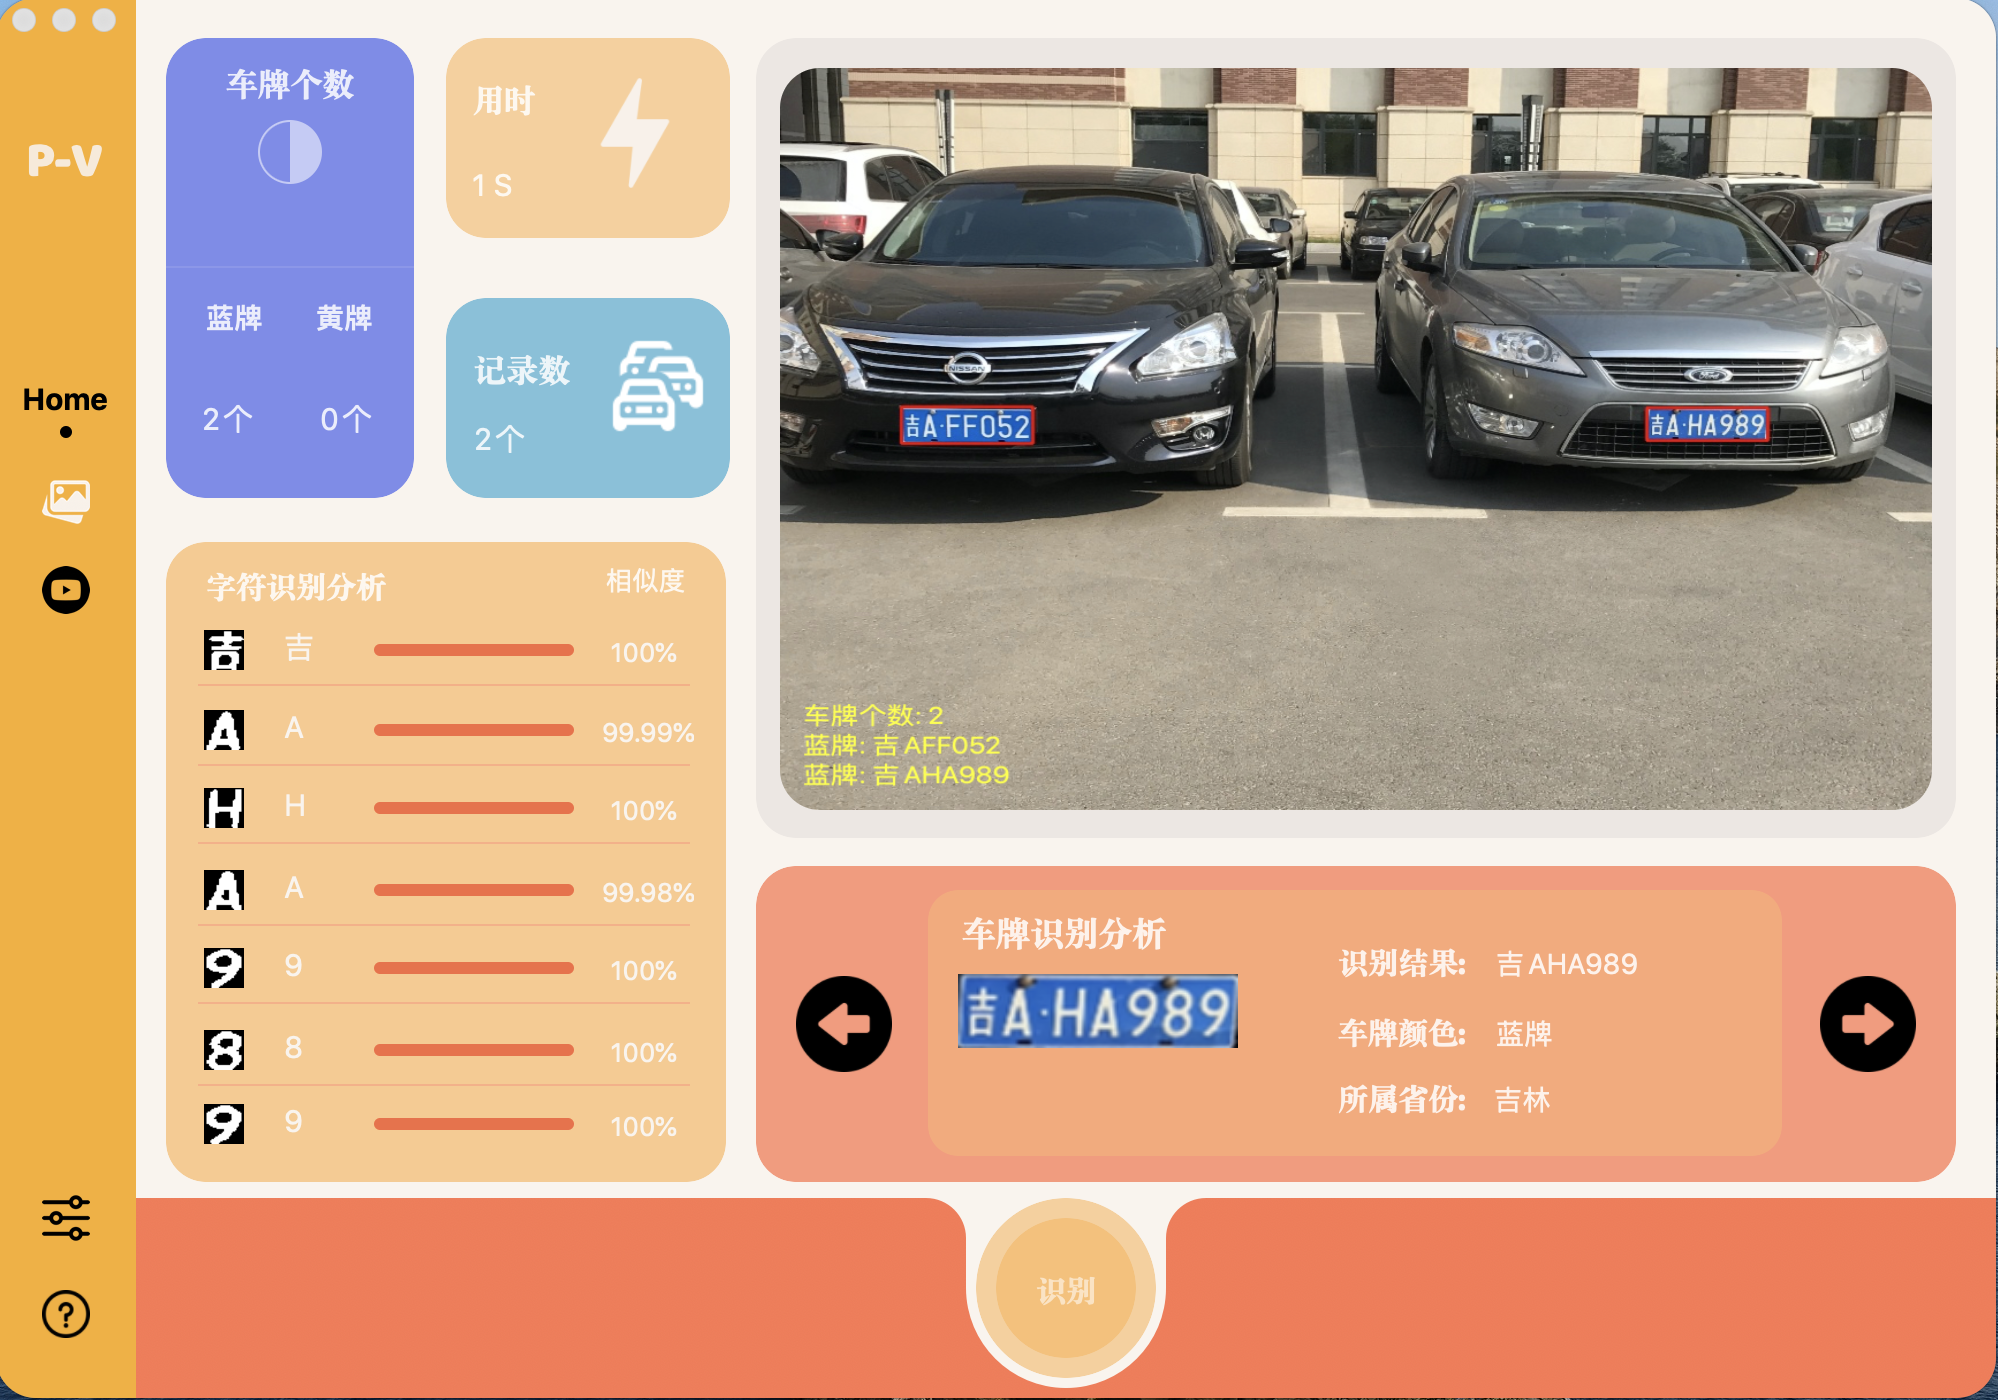
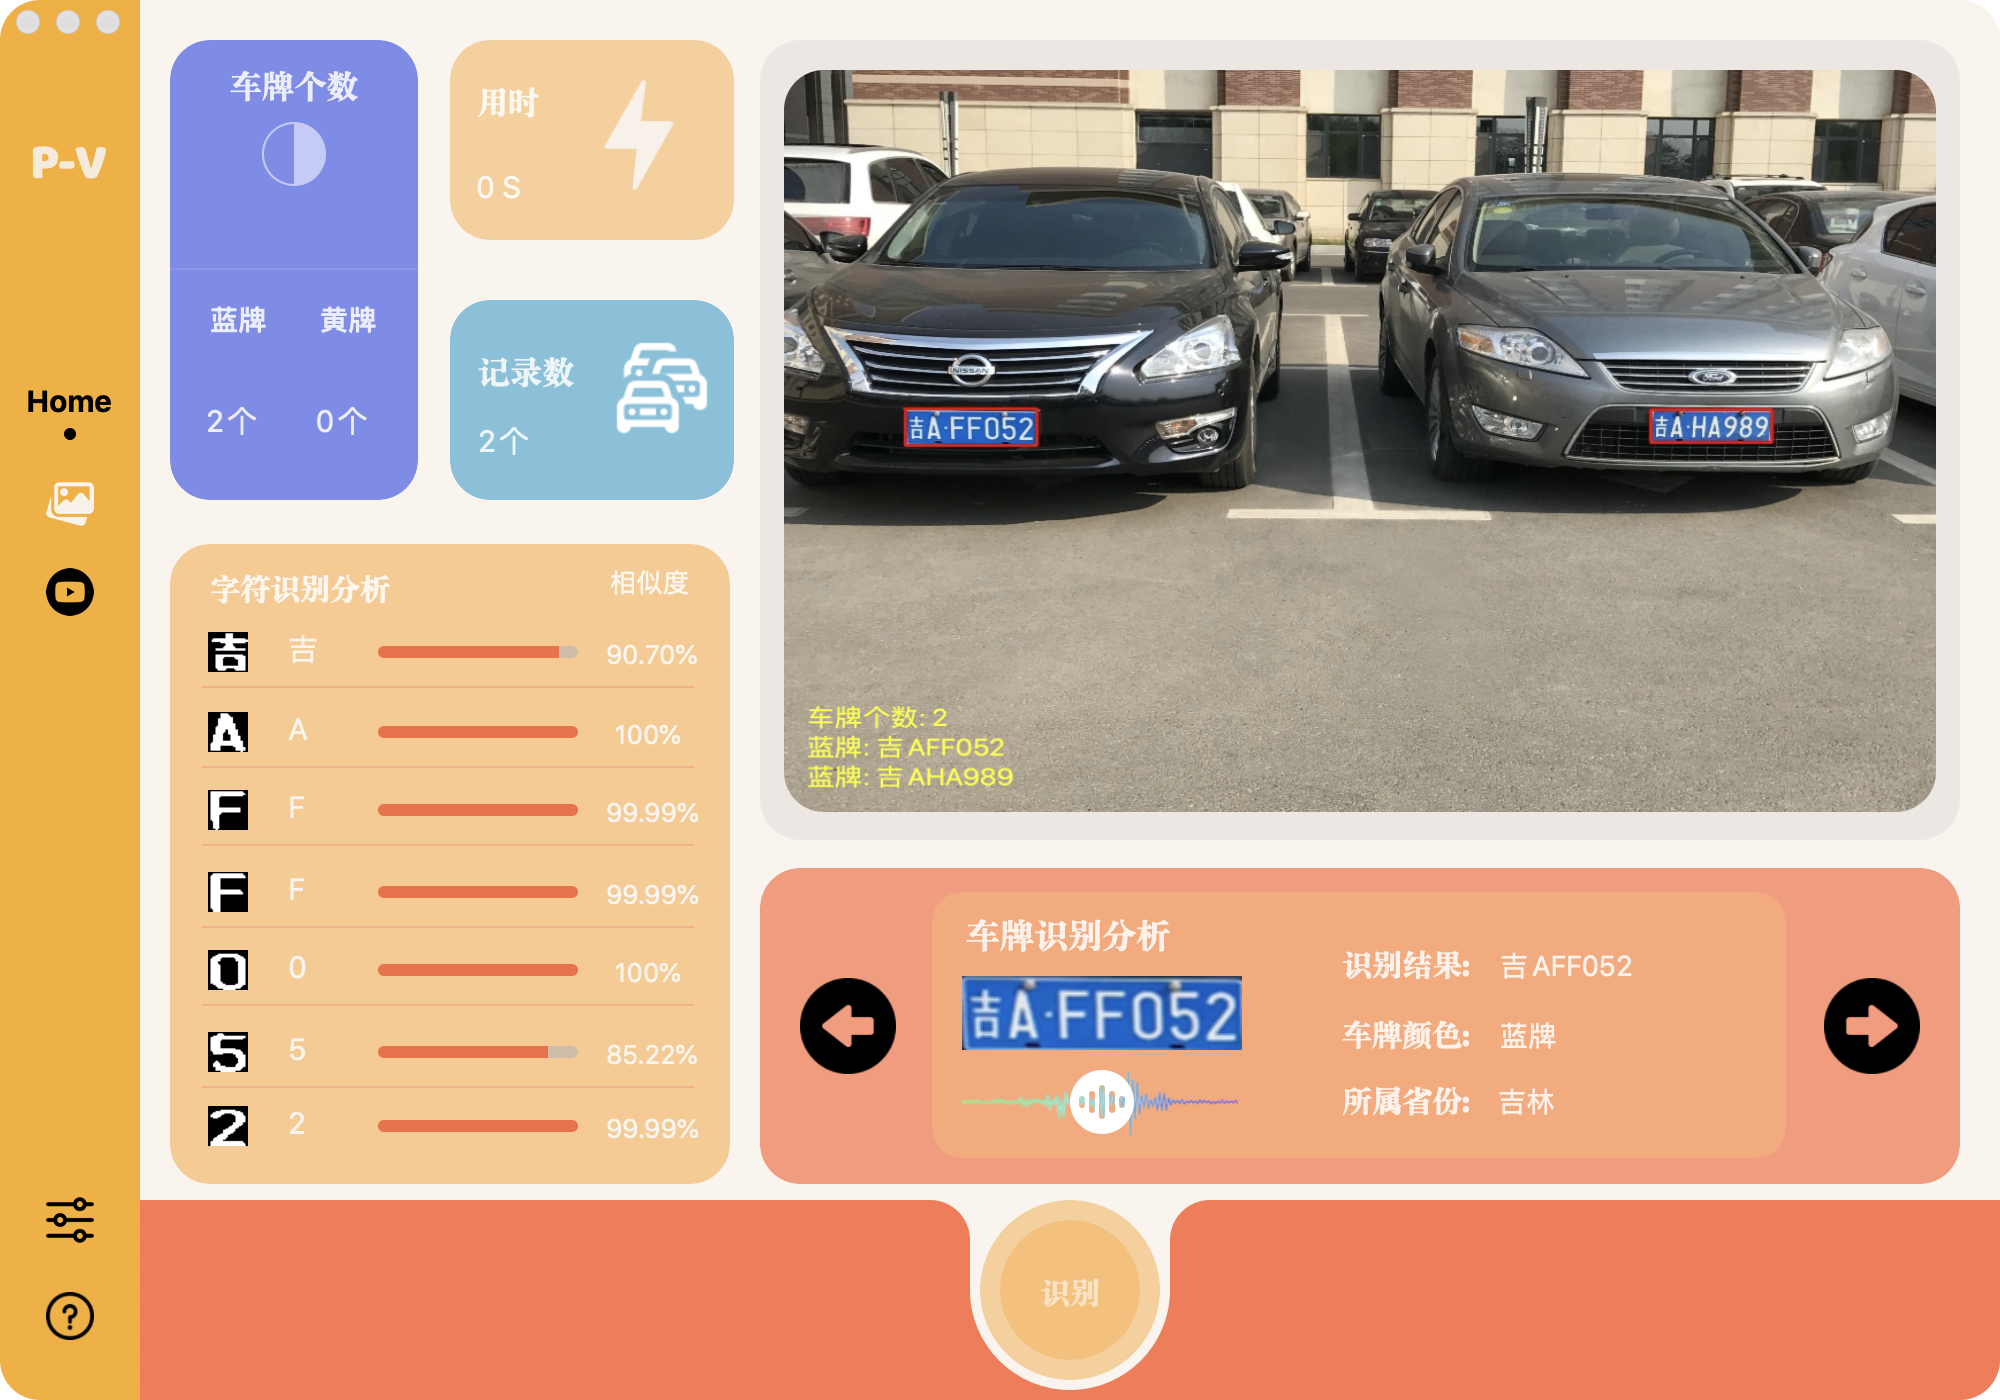
添加了语音播报功能并修复了之前版本存在的bug

diff --git a/PLR_Vision/Controller/ImageViewController.swift b/PLR_Vision/Controller/ImageViewController.swift
@@ -7,6 +7,7 @@
 //
 
 import Cocoa
+import AVFoundation
 
 class ImageViewController: NSViewController {
 
@@ -23,11 +24,14 @@ class ImageViewController: NSViewController {
     @IBOutlet weak var timeView: TimeView!
     @IBOutlet weak var contentView: NSView!
     @IBOutlet weak var recordsView: RecordsView!
+    @IBOutlet weak var audioButton: NSButton!
     
     private var preImage: NSImage!
     private var dictModels: [PlateInfoModel]!
     private var plateIndex: Int = 0
     private var records: Int = 0
+    
+    private var soundPlayer: AVAudioPlayer?
     
         
     // MARK: - View lifeCycle
@@ -198,4 +202,51 @@ class ImageViewController: NSViewController {
             updateUI(plateModel: dictModels[plateIndex])
         }
     }
+    
+    @IBAction func playSound(_ sender: NSButton) {
+        
+        if let player = soundPlayer {
+            if player.isPlaying { return }
+        }
+        
+        let currentLicense = dictModels[plateIndex].plateLicense! as NSString
+        
+        // 后台播放音乐
+        DispatchQueue.global().async {
+            self.playPlateSound(license: currentLicense)
+        }
+    }
+    
+}
+
+// MARK: - 音频处理
+extension ImageViewController {
+    
+    // 播放车牌号码
+    func playPlateSound(license: NSString) {
+       
+        
+        for i in 0...6 {
+            // 加载音效
+            let audioName = license.substring(with: NSMakeRange(i, 1))
+            guard let audioFileUrl = Bundle.main.url(forResource: audioName, withExtension: "mp3") else { return }
+            
+            do {
+                soundPlayer = try AVAudioPlayer(contentsOf: audioFileUrl)
+                soundPlayer?.enableRate = true
+                soundPlayer?.rate = 2.0
+                soundPlayer?.prepareToPlay()
+            } catch {
+                print("Sound player not available: \(error)")
+            }
+            
+            // 播放
+            soundPlayer?.play()
+            
+            while(soundPlayer!.isPlaying) {
+                
+            }
+        }
+    }
+    
 }

diff --git a/PLR_Vision/Controller/AboutViewController.swift b/PLR_Vision/Controller/AboutViewController.swift
@@ -18,7 +18,7 @@ class AboutViewController: NSViewController {
         
         view.wantsLayer = true
         // CGColor(red: 249 / 255, green: 241 / 255, blue: 233 / 255, alpha: 0.6)
-        view.layer?.backgroundColor = CGColor(red: 0 / 255, green: 0 / 255, blue: 0 / 255, alpha: 0.8)
+        view.layer?.backgroundColor = CGColor.clear
         
         detailView.wantsLayer = true
         detailView.layer?.backgroundColor = L_Yellow
@@ -32,25 +32,25 @@ class AboutViewController: NSViewController {
     
     // 项目地址
     @IBAction func showProjectPage(_ sender: NSButton) {
-        let url = URL(fileURLWithPath: "https://github.com/NathanYu1124/PLR_Vision")
+        let url = URL(string: "https://github.com/NathanYu1124/PLR_Vision")!
         NSWorkspace.shared.open(url)
     }
     
     // 关于我们
     @IBAction func showUsPage(_ sender: NSButton) {
-        let url = URL(fileURLWithPath: "https://github.com/NathanYu1124/PLR_Vision")
+        let url = URL(string: "https://github.com/NathanYu1124/PLR_Vision")!
         NSWorkspace.shared.open(url)
     }
     
     // 帮助支持
     @IBAction func showHelpPage(_ sender: NSButton) {
-        let url = URL(fileURLWithPath: "https://github.com/NathanYu1124/PLR_Vision")
+        let url = URL(string: "https://github.com/NathanYu1124/PLR_Vision")!
         NSWorkspace.shared.open(url)
     }
     
     // 更新日志
     @IBAction func showLogPage(_ sender: NSButton) {
-        let url = URL(fileURLWithPath: "https://github.com/NathanYu1124/PLR_Vision/releases")
+        let url = URL(string: "https://github.com/NathanYu1124/PLR_Vision/releases")!
         NSWorkspace.shared.open(url)
     }
 }

diff --git a/PLR_Vision/Others/AppDelegate.swift b/PLR_Vision/Others/AppDelegate.swift
@@ -11,16 +11,16 @@ import Cocoa
 @NSApplicationMain
 class AppDelegate: NSObject, NSApplicationDelegate {
 
-    // 创建状态栏
-    let statusItem = NSStatusBar.system.statusItem(withLength: NSStatusItem.squareLength)
+//    // 创建状态栏
+//    let statusItem = NSStatusBar.system.statusItem(withLength: NSStatusItem.squareLength)
     
     func applicationDidFinishLaunching(_ aNotification: Notification) {
        
-        // 设置状态栏Item
-        if let button = statusItem.button {
-            button.image = NSImage(named: NSImage.Name("StatusBarButtonImage"))
-            button.action = #selector(showPopMenu(_:))
-        }
+//        // 设置状态栏Item
+//        if let button = statusItem.button {
+//            button.image = NSImage(named: NSImage.Name("StatusBarButtonImage"))
+//            button.action = #selector(showPopMenu(_:))
+//        }
     }
     
     @objc func showPopMenu(_ sender: Any?) {

diff --git a/PLR_Vision/Controller/LoadingViewController.swift b/PLR_Vision/Controller/LoadingViewController.swift
@@ -22,6 +22,7 @@ class LoadingViewController: NSViewController {
         SVM_MODEL_PATH = Bundle.main.path(forResource: "svm", ofType: "xml")
         CNN_CHAR_MODEL_PATH = Bundle.main.path(forResource: "CNN_CHAR_MODEL", ofType: "md")
         CNN_ZH_MODEL_PATH = Bundle.main.path(forResource: "CNN_ZH63_MODEL", ofType: "md")
-        CACHE_PATH = NSSearchPathForDirectoriesInDomains(.documentDirectory, .userDomainMask, true).last
+        CACHE_PATH = NSTemporaryDirectory()
+    
     }
 }
